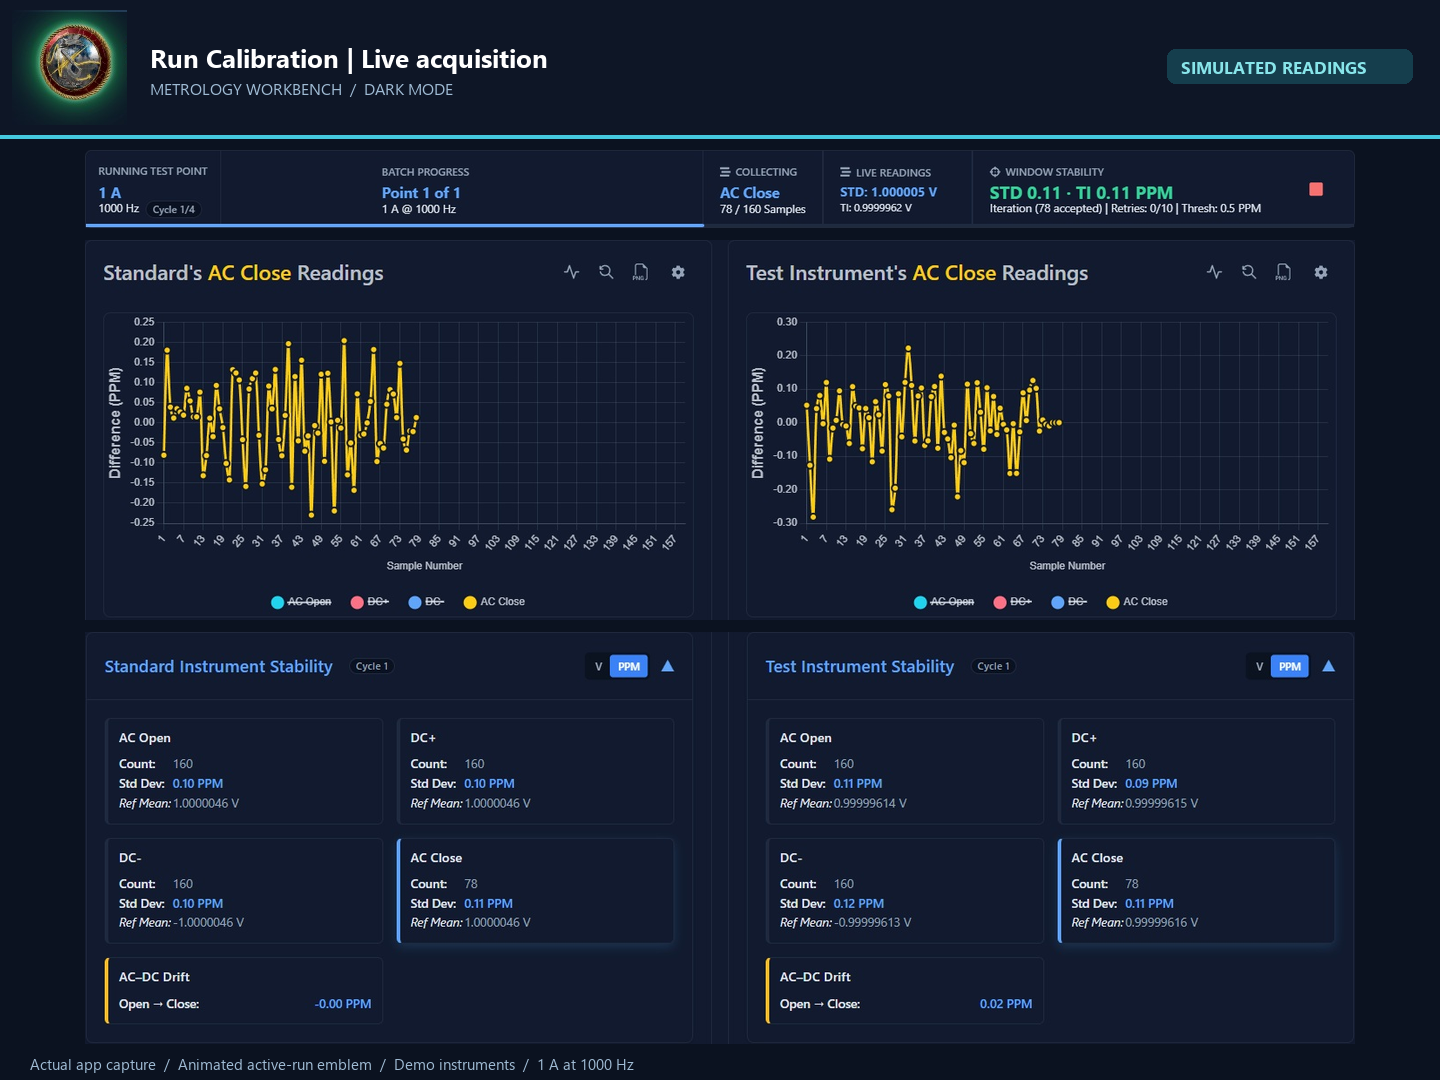
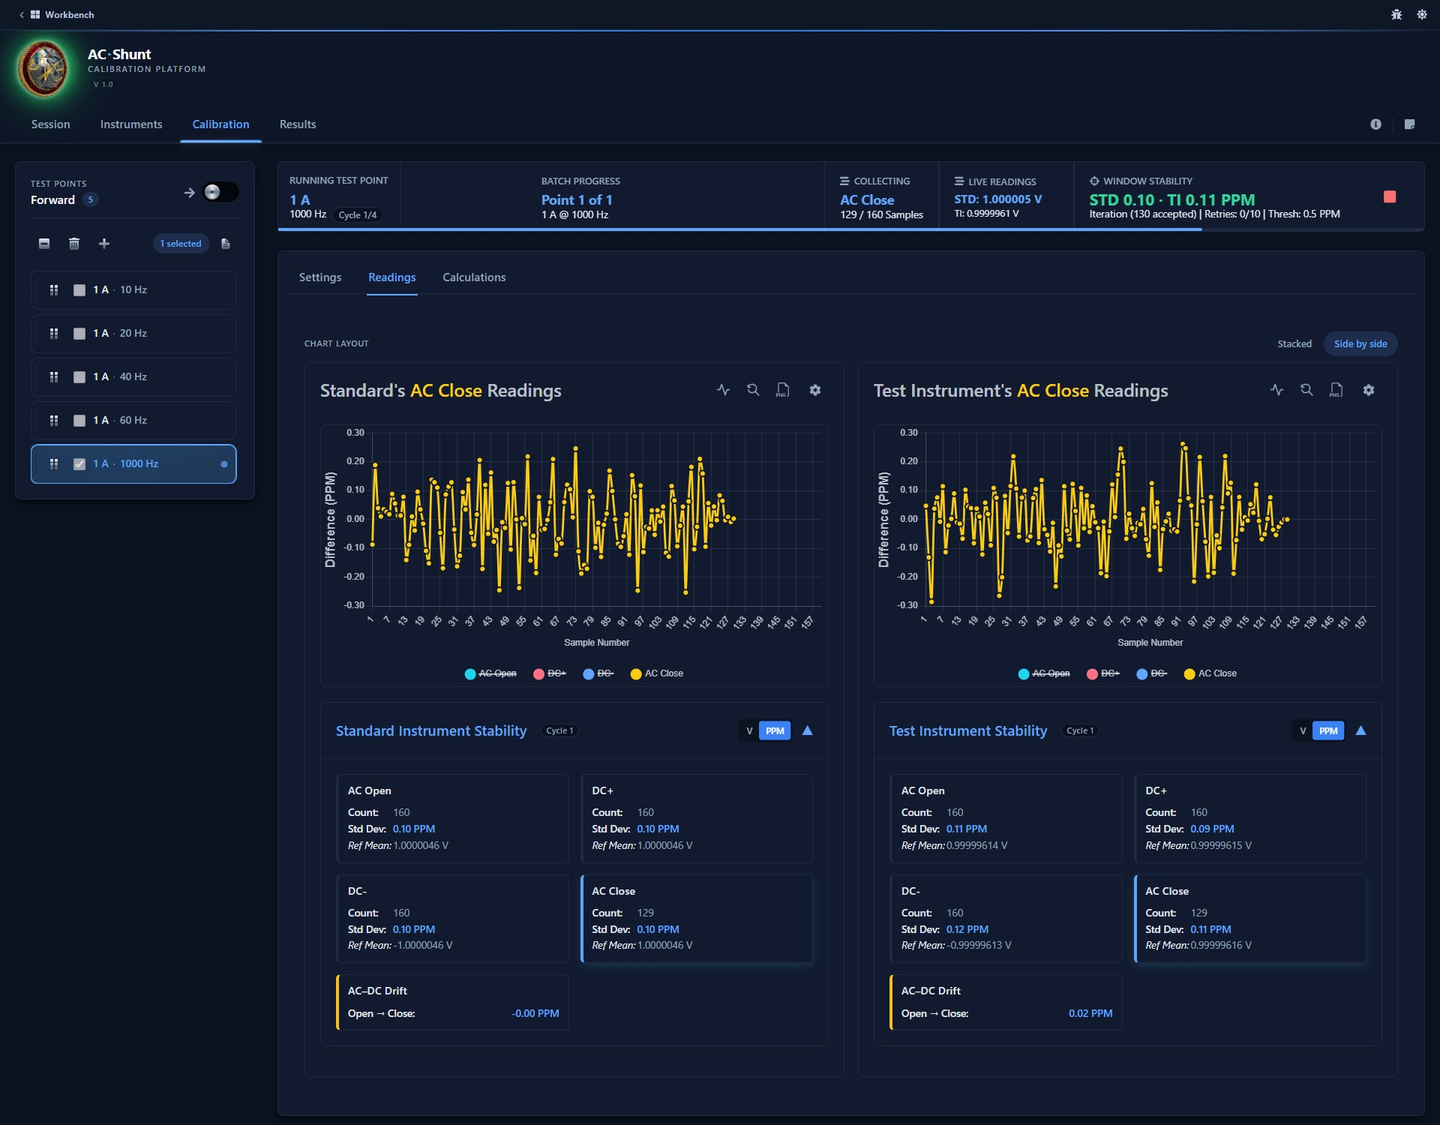
Restore native app appearance in two shunt GIFs

diff --git a/docs/presentations/metrology-workbench-introduction/START-HERE.html b/docs/presentations/metrology-workbench-introduction/START-HERE.html
@@ -14,13 +14,13 @@
 <a class="card" href="slides/06.png"><img src="slides/06.png" alt="Report of Calibration capabilities"></a>
 <a class="card" href="slides/07.png"><img src="slides/07.png" alt="Actual report preview screen"></a>
 </div>
-<h2 id="dark-gifs">Dark mode · Live calibration</h2><p>Four recordings of the real application, each featuring its animated seal with the green active-run glow. The acquisition views include live readings and stability statistics. The AC–DC statistics view follows completed forward cycles, showing the mean, uncertainty, standard deviation and trend changing as results arrive.</p>
+<h2 id="dark-gifs">Dark mode · Live calibration</h2><p>Four recordings of the real application. The overview now shows the native app layout and green active-run emblem; the AC–DC statistics animation shows the native statistics panel without presentation overlays. The acquisition views include live readings and stability statistics. The AC–DC statistics view follows completed forward cycles, showing the mean, uncertainty, standard deviation and trend changing as results arrive.</p>
 <div class="grid">
-<section class="card"><h3>01 · Live acquisition</h3><a href="animations/01-live-overview-dark-simulated.gif"><img src="animations/01-live-overview-dark-simulated.gif" alt="Dark-mode live readings and stability with the green glowing emblem"></a><p><a href="animations/01-live-overview-dark-simulated.gif" download>Download dark overview GIF</a> · 1440 × 1080</p></section>
+<section class="card"><h3>01 · Live acquisition</h3><a href="animations/01-live-overview-dark-simulated.gif"><img src="animations/01-live-overview-dark-simulated.gif" alt="Dark-mode live readings and stability with the green glowing emblem"></a><p><a href="animations/01-live-overview-dark-simulated.gif" download>Download dark overview GIF</a> · 1440 × 1125</p></section>
 <section class="card"><h3>02 · Reading charts</h3><a href="animations/02-live-charts-dark-simulated.gif"><img loading="lazy" src="animations/02-live-charts-dark-simulated.gif" alt="Dark-mode standard and test instrument charts with the green glowing emblem"></a><p><a href="animations/02-live-charts-dark-simulated.gif" download>Download dark charts GIF</a> · 1440 × 810</p></section>
 <section class="card"><h3>03 · Stability monitoring</h3><a href="animations/03-live-stability-dark-simulated.gif"><img loading="lazy" src="animations/03-live-stability-dark-simulated.gif" alt="Dark-mode window stability and instrument statistics with the green glowing emblem"></a><p><a href="animations/03-live-stability-dark-simulated.gif" download>Download dark stability GIF</a> · 1440 × 810</p></section>
-<section class="card"><h3>04 · AC–DC difference statistics</h3><a href="animations/04-ac-dc-statistics-dark-simulated.gif"><img loading="lazy" src="animations/04-ac-dc-statistics-dark-simulated.gif" alt="AC–DC difference statistics updating from one to three completed forward cycles"></a><p><a href="animations/04-ac-dc-statistics-dark-simulated.gif" download>Download AC–DC statistics GIF</a> · 1440 × 1080 · 5× playback</p></section>
-</div><p class="note">All dark-mode recordings use simulated instruments at 1 A and 1000 Hz. The first three are approximately seven-second acquisition loops. The statistics recording compresses the wait between completed cycles at 5× speed, explicitly labeled in the animation. The emblem is captured from the application's live 3D rendering. Matching PNG posters are included.</p>
+<section class="card"><h3>04 · AC–DC difference statistics</h3><a href="animations/04-ac-dc-statistics-dark-simulated.gif"><img loading="lazy" src="animations/04-ac-dc-statistics-dark-simulated.gif" alt="AC–DC difference statistics updating from one to three completed forward cycles"></a><p><a href="animations/04-ac-dc-statistics-dark-simulated.gif" download>Download AC–DC statistics GIF</a> · 1440 × 743 · 5× playback</p></section>
+</div><p class="note">All dark-mode recordings use simulated instruments at 1 A and 1000 Hz. The first three are approximately seven-second acquisition loops. The statistics recording compresses the wait between completed cycles at 5× speed, at 5× playback. The overview emblem is captured from the application's live 3D rendering. The overview and statistics GIFs have no added titles, badges or footers. Matching PNG posters are included.</p>
 <h2 id="uncertalytics-gifs">Uncertalytics · Real instruments, real analysis</h2><p>Three widescreen dark-mode animations use a Fluke 87V and an Agilent 34401A reference meter. Published instrument specifications drive the example budget; additional laboratory inputs are clearly identified as demonstration assumptions.</p><div class="grid"><section class="card"><h3>05 · Instruments & specifications</h3><a href="animations/05-uncertalytics-instruments-dark-demo.gif"><img loading="lazy" src="animations/05-uncertalytics-instruments-dark-demo.gif" alt="Uncertalytics Instruments & specifications demonstration"></a><p>Review realistic meter ranges and accuracy terms, then open the calculated budget.</p><p><a href="animations/05-uncertalytics-instruments-dark-demo.gif" download>Download GIF</a> · 1600 × 900 · <a href="animations/05-uncertalytics-instruments-dark-demo-poster.png">Still preview</a></p></section><section class="card"><h3>06 · What drives uncertainty</h3><a href="animations/06-uncertalytics-contributions-dark-demo.gif"><img loading="lazy" src="animations/06-uncertalytics-contributions-dark-demo.gif" alt="Uncertalytics What drives uncertainty demonstration"></a><p>Switch between 2 V, 5 V and 9 V to watch contribution bars and numerical results change.</p><p><a href="animations/06-uncertalytics-contributions-dark-demo.gif" download>Download GIF</a> · 1600 × 900 · <a href="animations/06-uncertalytics-contributions-dark-demo-poster.png">Still preview</a></p></section><section class="card"><h3>07 · Confidence & expanded uncertainty</h3><a href="animations/07-uncertalytics-confidence-dark-demo.gif"><img loading="lazy" src="animations/07-uncertalytics-confidence-dark-demo.gif" alt="Uncertalytics Confidence & expanded uncertainty demonstration"></a><p>Change confidence from 95% to 99% and back; watch coverage factor and expanded uncertainty recalculate.</p><p><a href="animations/07-uncertalytics-confidence-dark-demo.gif" download>Download GIF</a> · 1600 × 900 · <a href="animations/07-uncertalytics-confidence-dark-demo-poster.png">Still preview</a></p></section></div><p class="note">Actual application recordings with demo data, not hardware acquisition. The native animated emblem is paired with a green presentation-frame halo. <a href="source/UNCERTALYTICS-GIFS.txt">Read instrument sources, model assumptions and usage notes</a>.</p>
 <h2 id="live-gifs">Light mode · Live calibration</h2><p>Watch the actual application collect simulated instrument readings. These original 12-second loops show the AC Close stage at 1 A and 1000 Hz, including live voltage, window stability, sample counts, standard deviation in PPM, mean readings and AC–DC drift. Each view comes from the same acquisition. The section views are widescreen; the combined view keeps both charts and all stability cards readable.</p>
 <div class="videos">
